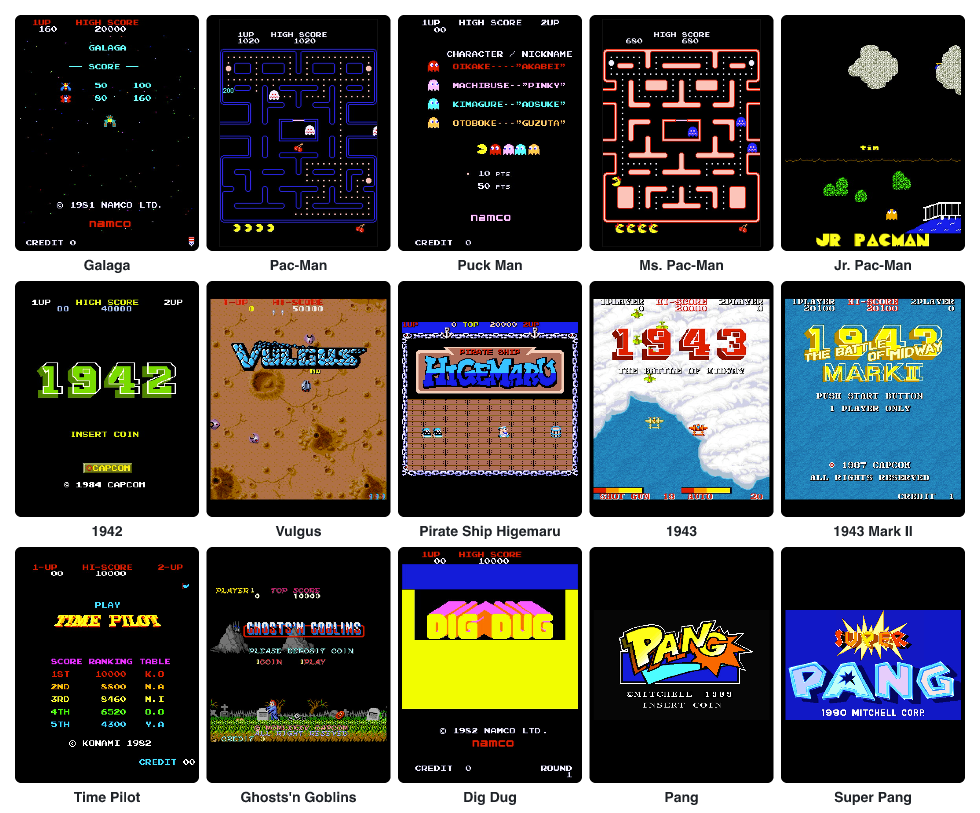
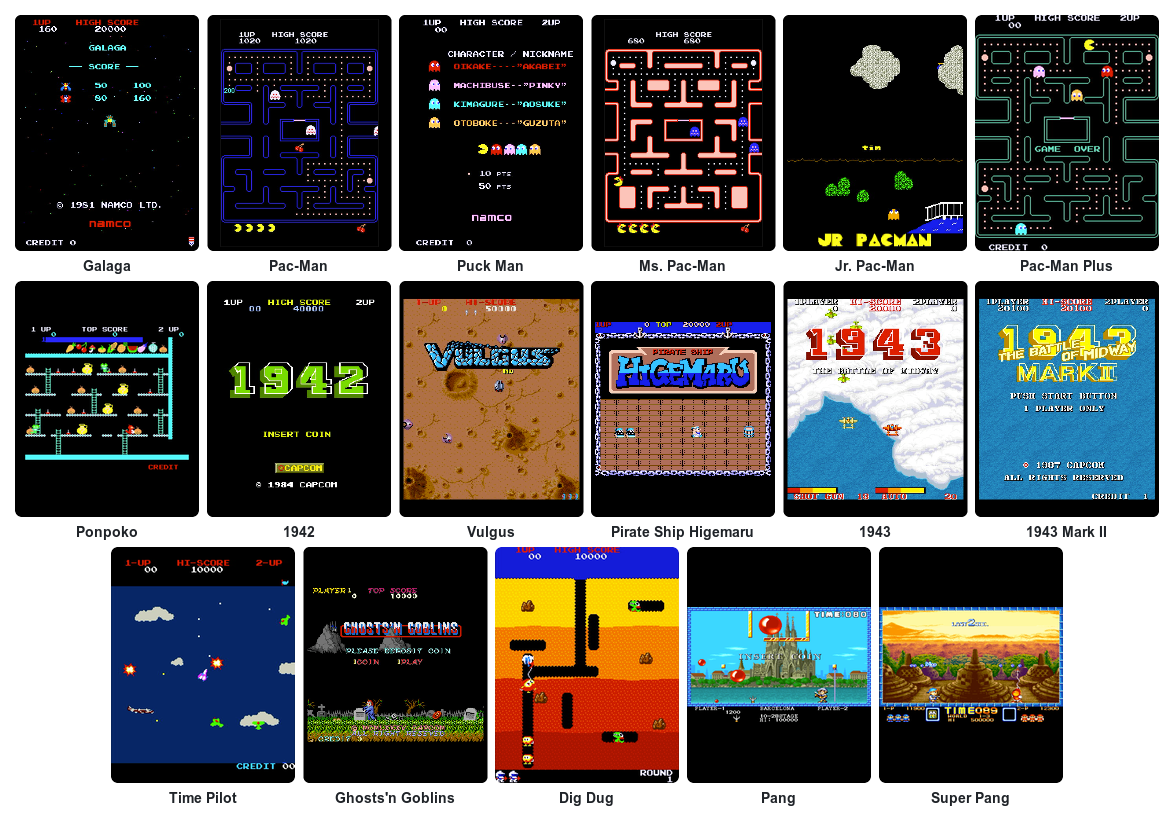
Gallery: all games, six of them with a scene from the demo

diff --git a/docs/images/README.md b/docs/images/README.md
@@ -5,10 +5,9 @@ cropping. The game graphics belong to their publishers.
 
 ## All games
 
-Fifteen of the games, by core. The regional and speedup sets look like their main game.
-[games.md](../games.md) lists all games.
+Every game, by core. The regional and speedup sets in [games.md](../games.md) look like their main game.
 
-![Galaga, Pac-Man, Puck Man, Ms. Pac-Man, Jr. Pac-Man, 1942, Vulgus, Pirate Ship Higemaru, 1943, 1943 Mark II, Time Pilot, Ghosts'n Goblins, Dig Dug, Pang and Super Pang](gallery.png)
+![Galaga, Pac-Man, Puck Man, Ms. Pac-Man, Jr. Pac-Man, Pac-Man Plus, Ponpoko, 1942, Vulgus, Pirate Ship Higemaru, 1943, 1943 Mark II, Time Pilot, Ghosts'n Goblins, Dig Dug, Pang and Super Pang](gallery.png)
 
 ## In play
 
